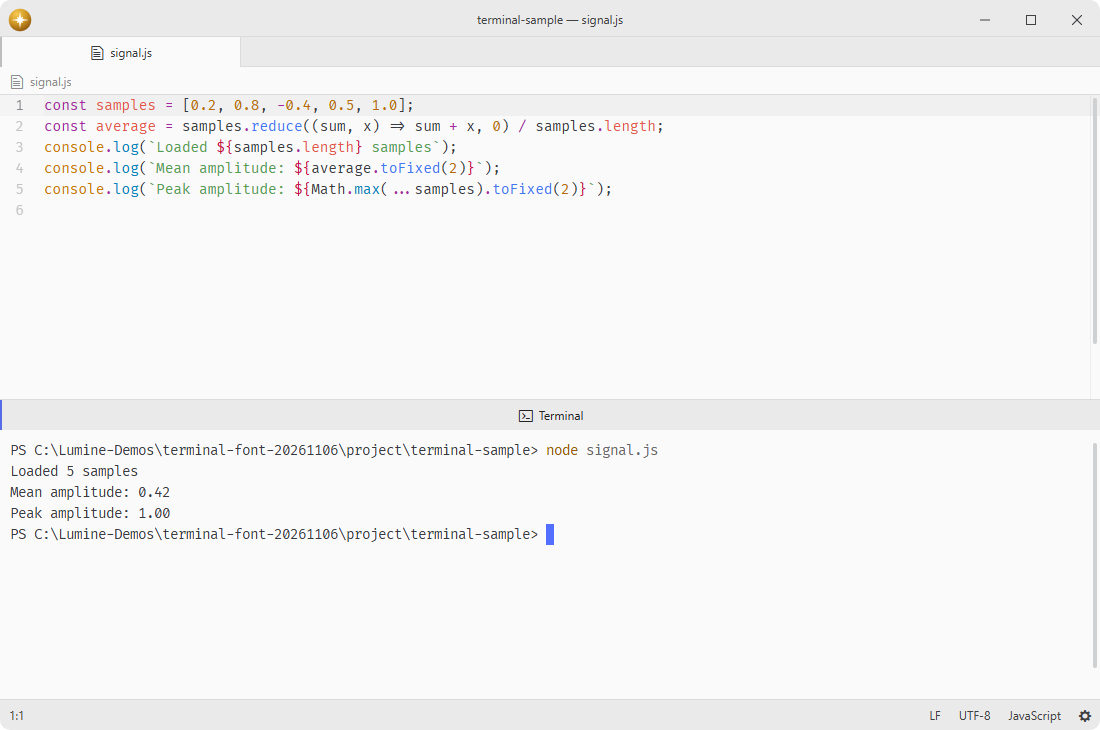
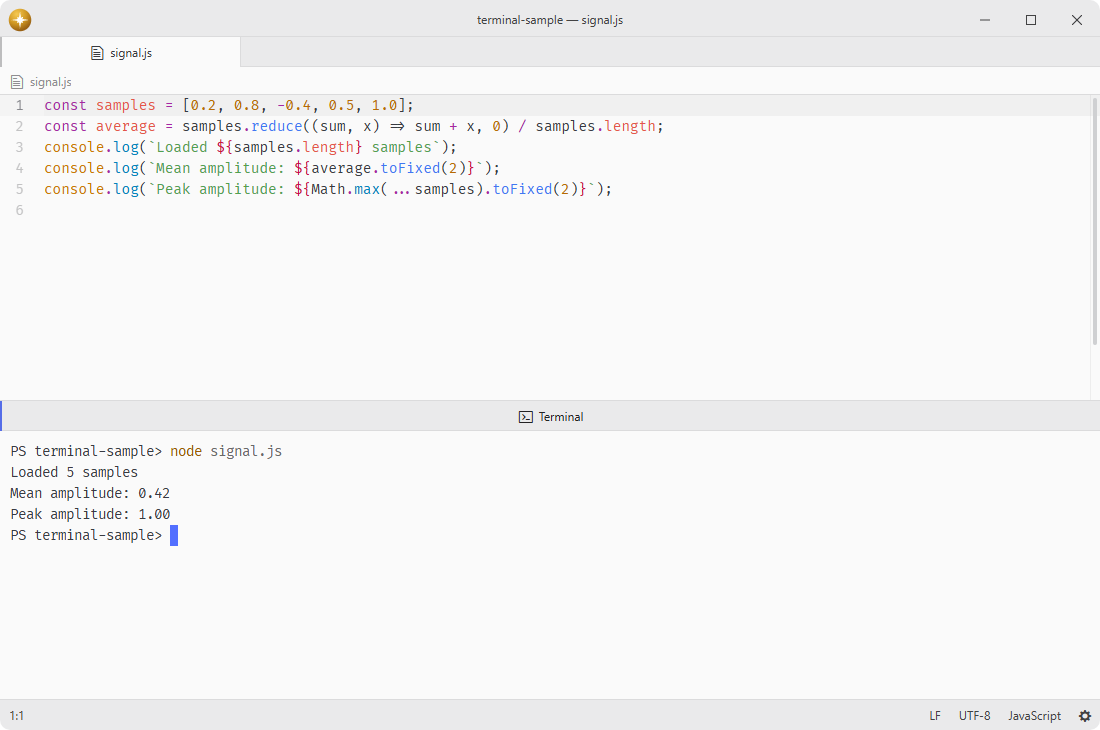
Keep local paths out of the Terminal demo

Changed region(s): [[0.0, 0.5425, 0.5873, 0.7534], [0.9891, 0.6027, 1.0, 0.9342]]

diff --git a/demo.js b/demo.js
@@ -8,14 +8,25 @@ module.exports = {
     const { lumine, state, fixture, open } = context;
     state.editor = await open("terminal-sample/signal.js");
     await lumine.project.setPaths([fixture("terminal-sample")]);
-    lumine.config.set(
-      "terminal.terminal.shell",
-      process.platform === "win32" ? "powershell.exe" : process.env.SHELL || "/bin/sh",
-    );
+    const windows = process.platform === "win32";
+    lumine.config.set("terminal.terminal.shell", windows ? "powershell.exe" : "/bin/sh");
     lumine.config.set(
       "terminal.terminal.args",
-      process.platform === "win32" ? ["-NoLogo", "-NoProfile", "-NoExit"] : [],
+      windows
+        ? [
+            "-NoLogo",
+            "-NoProfile",
+            "-NoExit",
+            "-Command",
+            "function prompt { 'PS ' + (Get-Item -LiteralPath .).Name + '> ' }",
+          ]
+        : ["-i"],
     );
+    if (!windows)
+      lumine.config.set(
+        "terminal.terminal.env.overrideEnv",
+        JSON.stringify({ ENV: "", PS1: "$ " }),
+      );
   },
   scenes: [
     {
@@ -63,6 +74,7 @@ module.exports = {
     const { lumine } = context;
     lumine.config.unset("terminal.terminal.shell");
     lumine.config.unset("terminal.terminal.args");
+    if (process.platform !== "win32") lumine.config.unset("terminal.terminal.env.overrideEnv");
   },
   privacyText({ state }) {
     const buffer = state.terminal?.element?.terminal?.buffer.active;
